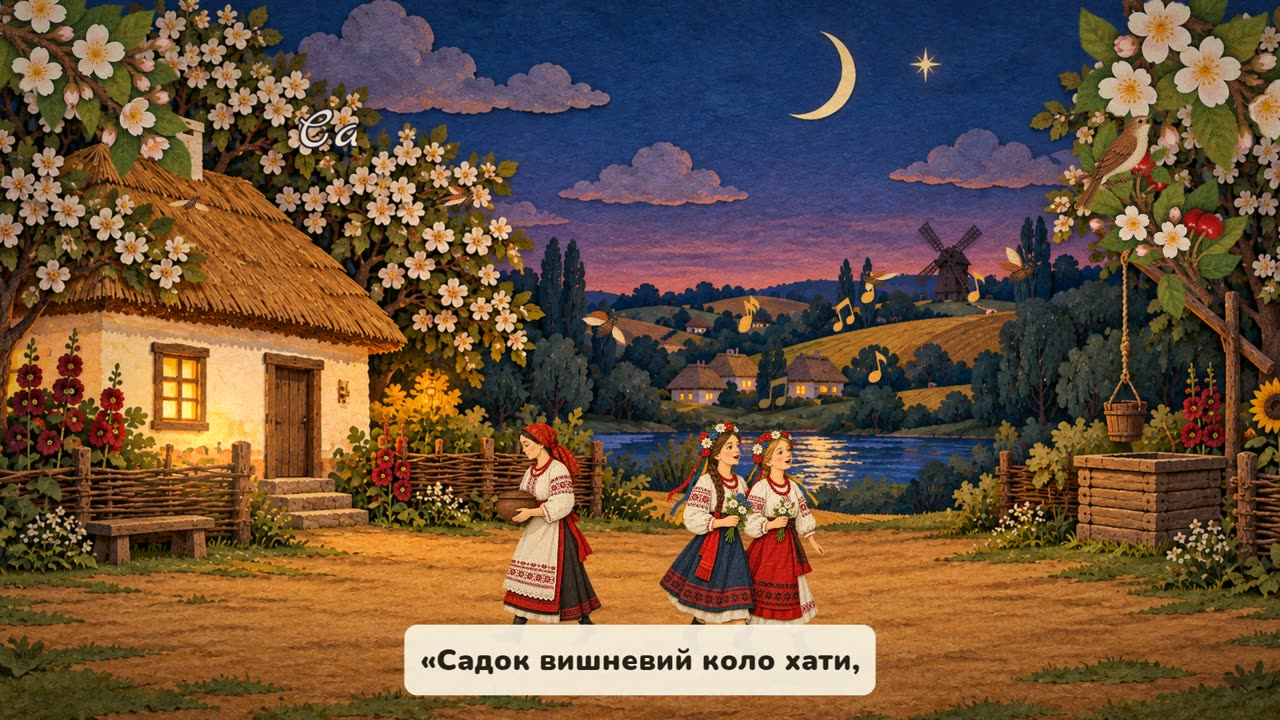
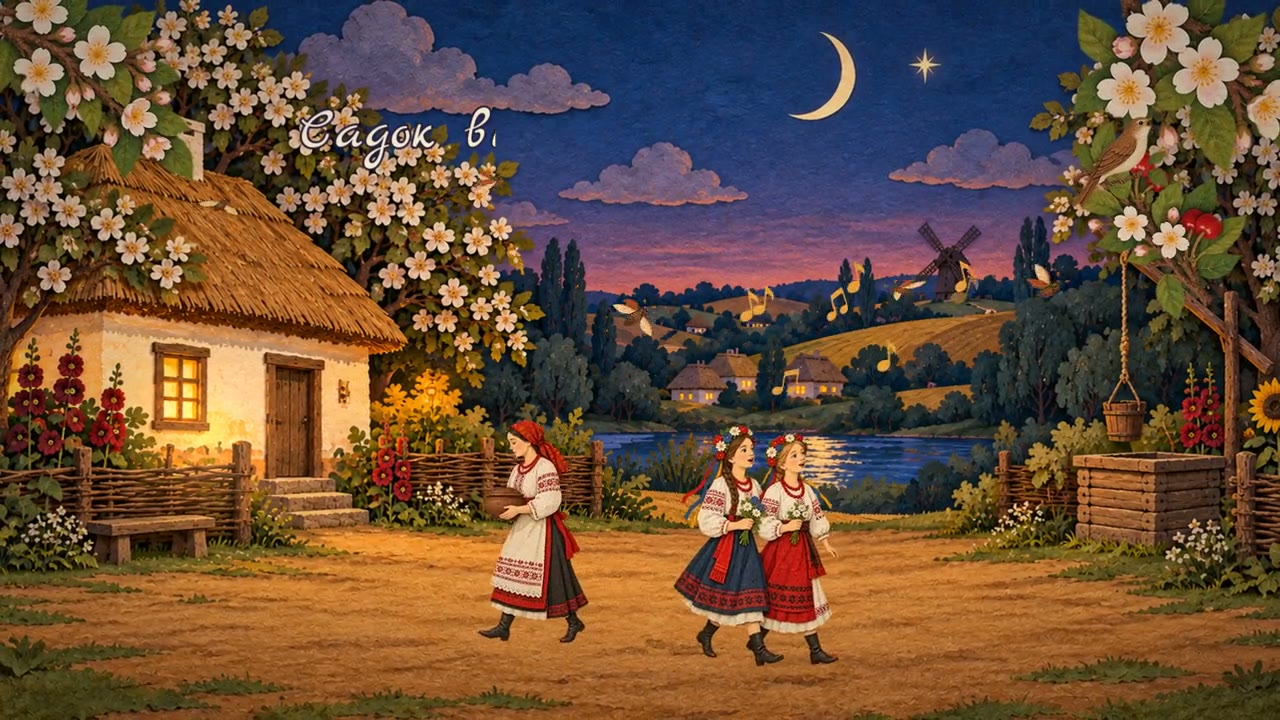
Демо: нова повна версія мультфільму про Шевченка замість старого тизера; справжні сторінки роздатки й новий кадр мультфільму на сайті

diff --git a/public/packs/mova/pack.js b/public/packs/mova/pack.js
@@ -7,7 +7,7 @@
   description: 'Заняття відповідає завданням мовно-літературної галузі НУШ, розширює знання учнів про українську писемність і знайомить із темами та постатями, які вони продовжать вивчати у 5–6 класах.',
   date: '27 жовтня',
   word: 'СЛОВО',
-  versions: {"media/franko.mp4": "2ba4d28e83", "media/kyrylo.mp4": "cdf8980ec2", "media/lesya.mp4": "43ea883218", "media/nestor.mp4": "37dc1a86c1", "media/shevchenko-full.mp4": "58e5483b3f", "media/shevchenko.mp4": "74216cc9c3", "docs/robochi-arkushi.pdf": "ed109886d8", "img/cover-card.jpg": "c5660e5ef7", "img/franko-head.png": "237ec86192", "img/franko-poster.jpg": "c35c5da12b", "img/handout-01.jpg": "0b5141a8e4", "img/handout-02.jpg": "ae479dd082", "img/handout-03.jpg": "f8233dacbe", "img/handout-04.jpg": "42fba5b991", "img/handout-05.jpg": "f25b27ae13", "img/handout-06.jpg": "652d45bcf9", "img/handout-07.jpg": "f8ab020884", "img/handout-08.jpg": "7769d9a4df", "img/handout-09.jpg": "3b734e73f8", "img/handout-10.jpg": "a25b0774a4", "img/handout-11.jpg": "ade5dd64de", "img/handout-12.jpg": "4b2b6fc7db", "img/handout-13.jpg": "69584e55c5", "img/handout-14.jpg": "f6aed514a5", "img/handout-15.jpg": "d525eb2170", "img/handout-16.jpg": "baed947c65", "img/handout-17.jpg": "5d2a9022d3", "img/handout-18.jpg": "5baf123843", "img/kyrylo-head.png": "9230b66978", "img/kyrylo-poster.jpg": "4c96585f35", "img/lesya-head.png": "48df682c9c", "img/lesya-poster.jpg": "986d35fd15", "img/nestor-head.png": "e490fb8de2", "img/nestor-poster.jpg": "2d7f98fc9d", "img/shevchenko-head.png": "051f350828", "img/shevchenko-poster.jpg": "dcdbaed8ab"},
+  versions: {"media/franko.mp4": "2ba4d28e83", "media/kyrylo.mp4": "cdf8980ec2", "media/lesya.mp4": "43ea883218", "media/nestor.mp4": "37dc1a86c1", "media/shevchenko-full.mp4": "58e5483b3f", "media/shevchenko.mp4": "74216cc9c3", "docs/robochi-arkushi.pdf": "ed109886d8", "img/cover-card.jpg": "c5660e5ef7", "img/franko-head.png": "237ec86192", "img/franko-poster.jpg": "c35c5da12b", "img/handout-01.jpg": "0b5141a8e4", "img/handout-02.jpg": "ae479dd082", "img/handout-03.jpg": "f8233dacbe", "img/handout-04.jpg": "42fba5b991", "img/handout-05.jpg": "f25b27ae13", "img/handout-06.jpg": "652d45bcf9", "img/handout-07.jpg": "f8ab020884", "img/handout-08.jpg": "7769d9a4df", "img/handout-09.jpg": "3b734e73f8", "img/handout-10.jpg": "a25b0774a4", "img/handout-11.jpg": "ade5dd64de", "img/handout-12.jpg": "4b2b6fc7db", "img/handout-13.jpg": "69584e55c5", "img/handout-14.jpg": "f6aed514a5", "img/handout-15.jpg": "d525eb2170", "img/handout-16.jpg": "baed947c65", "img/handout-17.jpg": "5d2a9022d3", "img/handout-18.jpg": "5baf123843", "img/kyrylo-head.png": "9230b66978", "img/kyrylo-poster.jpg": "4c96585f35", "img/lesya-head.png": "48df682c9c", "img/lesya-poster.jpg": "986d35fd15", "img/nestor-head.png": "e490fb8de2", "img/nestor-poster.jpg": "2d7f98fc9d", "img/shevchenko-head.png": "051f350828", "img/shevchenko-poster.jpg": "7d84a5cc80"},
   subs: {"media/franko.mp4":[[1.31,3.06,"Знаєте, як кують слова?"],[4.54,8.3,"Так само, як залізо: гарячим серцем і працею."],[14.0,17.58,"Я, Іван Франко, народився в селі Нагуєвичі."],[18.1,19.78,"Мій тато був ковалем."],[20.17,24.18,"Я годинами дивився, як зі шматка заліза народжується підкова."],[25.86,28.47,"А найбільше я любив книжки."],[30.04,33.23,"Я вчився в Дрогобичі й був одним із найкращих учнів."],[33.55,36.12,"Книжки були для мене справжнім скарбом."],[37.78,42.49,"Для дітей я писав казки. Ось одна з них — «Фарбований Лис»."],[43.1,49.17,"Тікав якось Лис Микита від собак… і — бульк! — прямісінько в бочку з фарбою!"],[49.88,52.8,"Виліз Лис — увесь синій!"],[53.08,56.1,"І звірі подумали, що це дивовижний цар!"],[56.74,62.62,"Та одного дня… він почув, як виють лиси… і сам — завив!"],[62.78,66.26,"Тоді звірі зрозуміли, що він їх обманув!"],[67.04,70.66,"Бо правда… рано чи пізно відкривається."],[72.51,78.25,"Я писав вірші, оповідання й казки… а ще перекладав книжки з різних мов!"],[78.65,83.05,"Пізніше мої твори зібрали — у п'ятдесяти великих томах!"],[84.88,89.34,"Мій тато кував залізо… а я — працював зі словами."],[90.56,93.41,"Адже словом можна підтримати людину…"],[93.75,95.97,"і допомогти їй змінювати світ!"],[97.67,102.63,"Якого ж кольору був мій Лис? Синього!"],[104.44,107.51,"Діти, назвіть якнайбільше слів-кольорів!"]],"media/kyrylo.mp4":[[1.56,8.74,"Уявіть… у людей є своя мова… пісні… казки… колискові…"],[9.76,12.48,"Але книжок цією мовою — майже немає."],[13.22,16.54,"Щоб записувати слова… потрібна абетка."],[21.88,23.46,"Брате Костянтине!"],[23.66,26.56,"З далекої Моравії прибули посли."],[26.82,32.2,"Слов'яни просять книги — своєю, рідною мовою!"],[33.08,38.36,"Але ж немає абетки… якою можна записувати слов'янську мову…"],[39.9,42.48,"Значить — ми її створимо!"],[44.03,50.07,"Ночами… при свічці… я добирав знак — для кожного звука."],[51.39,56.29,"Так з'явилася глаголиця — найдавніша відома слов'янська абетка!"],[57.52,60.68,"Ми перекладали книжки слов'янською мовою."],[61.66,64.04,"Одна з них починалася словами…"],[64.96,68.96,"«Споконвіку… було Слово»."],[70.45,74.17,"І ми вирушили в дорогу — через гори й ріки, —"],[74.23,78.33,"щоб навчити людей читати й писати рідною мовою."],[80.13,85.49,"Пізніше… серед наших учнів і послідовників з'явилася кирилиця."],[85.65,88.01,"Її назвали — на мою честь."],[89.79,93.17,"Від неї походить і сучасна українська абетка!"],[94.47,96.55,"А тепер — таємниця для вас."],[96.95,99.81,"Я записав одне слово глаголицею."],[100.91,102.75,"Зможете його прочитати?"]],"media/lesya.mp4":[[1.16,3.2,"Чуєте, як шепоче ліс?"],[4.88,8.8,"Я виросла серед таких лісів — на Волині й Поліссі."],[9.26,11.76,"І кожне дерево тут має свою пісню."],[18.04,21.84,"Мене звали Лариса Косач."],[22.02,25.38,"А рідні кликали просто — Леся."],[25.7,29.1,"Моя мама була письменницею. Вона розповідала мені казки й співала пісень."],[30.98,34.88,"Коли мені було дев'ять, мою тітку забрали далеко від дому."],[35.28,40.78,"Мені було так сумно, що вночі я взяла олівець… і написала свій перший вірш."],[42.08,44.72,"«Ні долі, ні волі у мене нема,"],[45.7,47.88,"Зосталася тільки надія одна»."],[49.92,55.48,"Невдовзі я тяжко захворіла… і не могла бігати, як інші діти."],[56.28,62.36,"Але я не здалася: багато читала, писала — і вивчала різні мови."],[63.99,68.22,"Коли мені було тринадцять років… у журналі надрукували мій вірш!"],[69.06,72.58,"Я підписала його ім'ям — Леся Українка."],[73.61,76.94,"Таке ім'я письменника називають літературним ім'ям."],[78.75,81.87,"А ще я написала «Лісову пісню»…"],[82.27,86.51,"чарівну історію про людей — і казкових мешканців лісу."],[87.29,90.61,"Одна з її героїнь — лісова дівчина Мавка."],[92.52,97.34,"Вірші народжуються, коли слова дружать і звучать схоже: рука — ріка…"],[97.5,101.64,"Діти, знайдіть пари слів, що римуються!"]],"media/nestor.mp4":[[1.12,2.04,"Тихо…"],[2.52,6.34,"Ми в печерах Києво-Печерського монастиря."],[6.96,9.06,"Саме тут, при свічці,"],[9.24,12.18,"почалася одна дуже важлива книга."],[17.72,21.72,"Отче Несторе, а звідки ми знаємо, як жили люди давним-давно?"],[22.14,24.94,"Адже тоді не було ні фото, ні відео!"],[25.44,29.7,"Бо хтось… записував те, що відбувалося."],[30.6,33.98,"Я прийшов до монастиря ще юнаком…"],[34.36,38.66,"багато вчився — і працював із давніми книгами."],[40.17,45.29,"Ось давні слова, якими починається літопис…"],[46.07,48.69,"«Повість временних літ…"],[49.27,52.61,"…звідки пішла Руська земля»."],[53.88,57.46,"Несторе… а що означають ці давні слова?"],[58.02,63.14,"Простими словами — це розповідь про минулі роки."],[64.0,67.44,"Колись рік називали… «літом»!"],[67.94,71.38,"Тому така книга і зветься — літописом."],[72.7,75.36,"У літописі є легенда…"],[75.54,80.76,"про Кия, Щека, Хорива — та їхню сестру Либідь."],[80.94,85.78,"Є розповіді про княгиню Ольгу…"],[85.8,91.56,"й Ярослава Мудрого, який любив книжки — і дбав, щоб їх переписували."],[92.86,95.2,"Ой! Вітер розкидав аркуші…"],[95.42,97.04,"Події переплуталися!"],[97.62,98.68,"Не біда!"],[99.26,105.58,"Діти, допоможіть нам — розставте події по порядку, як справжні літописці!"]],"media/shevchenko-full.mp4":[[1.16,1.94,"Тссс…"],[2.6,8.66,"Уночі, коли всі спали, я тихенько пробирався в сад і малював статуї при місяці."],[9.64,12.5,"Бо понад усе хотів стати художником."],[18.36,20.3,"Я — Тарас Шевченко."],[21.42,25.24,"Я народився 1814 року в селі Моринці."],[26.14,29.6,"Моя родина була кріпаками… ми не були вільними."],[30.28,31.58,"Нами володів пан."],[32.57,37.43,"Змалку я малював усюди: вуглинкою на стінах, на парканах…"],[38.92,44.32,"Мені здавалося, що кожна хата й кожна верба просяться на малюнок."],[45.76,48.27,"Пан забрав мене служити в далеке чуже місто."],[49.44,51.68,"Там я й малював уночі статуї в саду."],[52.8,58.13,"Одного разу мене помітив український художник Іван Сошенко — і вирішив допомогти."],[59.68,66.54,"Мої друзі влаштували розіграш картини — і зібрали потрібні гроші!"],[67.32,68.88,"За них мене викупили з кріпацтва!"],[69.54,72.18,"У двадцять чотири роки… я нарешті став вільним!"],[73.77,79.9,"А 1840 року вийшла моя перша книжка віршів — «Кобзар»."],[82.25,87.58,"Кобзарями називали мандрівних співців, які несли людям пісню і правду."],[88.96,94.74,"За мої вірші про волю російський цар наказав заслати мене далеко від України…"],[95.52,97.68,"і заборонив писати та малювати."],[98.98,102.74,"Але я потайки писав… у маленьких книжечках…"],[103.56,105.12,"і ховав їх у чоботі."],[107.46,109.99,"А найчастіше я згадував рідну хату…"],[111.05,112.98,"«Садок вишневий коло хати,"],[113.59,115.85,"хрущі над вишнями гудуть…»"],[116.96,120.43,"Ой! Вітер розсипав слова з мого вірша!"],[121.19,124.43,"Діти, допоможіть зібрати рядок у правильному порядку!"]],"media/shevchenko.mp4":[[1.0,4.35,"Добрий день, діти! Я — Тарас Шевченко."],[5.6,7.95,"Коли я був таким малим, як ви…"],[8.7,10.95,"…то найбільше любив малювати."],[11.1,14.05,"Вуглинкою — просто на білих стінах хати!"],[15.0,18.65,"Хочете, розкажу, як хлопчик-кріпак став поетом?"]]},
   base: 'packs/mova/',
   cover: 'img/cover-card.jpg',
@@ -59,7 +59,6 @@
       letter: 'О',
       portrait: 'img/shevchenko-head.png',
       video: 'media/shevchenko-full.mp4',
-      demoVideo: 'media/shevchenko.mp4',
       poster: 'img/shevchenko-poster.jpg',
       intro: 'Тарас Шевченко народився в родині кріпаків. Змалку любив малювати, а виріс великим поетом і художником. 1840 року вийшла його книжка віршів «Кобзар».',
       task: {
@@ -111,8 +110,7 @@
   ],
 
   cartoons: [
-    { title: 'Тарас Шевченко: хлопчик, який малював волю', file: 'media/shevchenko-full.mp4', ready: true },
-    { title: 'Тарас Шевченко: «Коли я був малим…» (тизер)', file: 'media/shevchenko.mp4', ready: true, demo: true },
+    { title: 'Тарас Шевченко: хлопчик, який малював волю', file: 'media/shevchenko-full.mp4', ready: true, demo: true },
     { title: 'Кирило і Мефодій: таємниця першої абетки', file: 'media/kyrylo.mp4', ready: true },
     { title: 'Нестор Літописець: книга про минулі літа', file: 'media/nestor.mp4', ready: true },
     { title: 'Леся Українка: дівчинка, яка перемогла страх словом', file: 'media/lesya.mp4', ready: true },

diff --git a/public/index.html b/public/index.html
@@ -20,7 +20,7 @@
 <link rel="apple-touch-icon" href="icons/apple-touch-icon.png">
 <link rel="manifest" href="manifest.webmanifest">
 <link rel="preload" href="fonts/Nunito.ttf" as="font" type="font/ttf" crossorigin>
-<link rel="stylesheet" href="css/site.css?v=291be0e89c">
+<link rel="stylesheet" href="css/site.css?v=390a88ed00">
 </head>
 <body>
 
@@ -123,7 +123,7 @@
           </div>
         </article>
         <article class="feature reveal">
-          <div class="pic"><img src="img/site/flashback.webp?v=2" alt="Кадр мультфільму: малий Тарас малює вуглинкою на стіні хати" width="1440" height="810" loading="lazy"></div>
+          <div class="pic"><img src="img/site/flashback.webp?v=3" alt="Кадр мультфільму: малий Тарас малює вуглинкою, і малюнок оживає" width="1440" height="810" loading="lazy"></div>
           <div class="body">
             <h3><span class="tag"><svg viewBox="0 0 24 24" fill="none" stroke="currentColor" stroke-width="2.2"><rect x="3" y="5" width="18" height="14" rx="2"/><path d="M10 9l5 3-5 3z" fill="currentColor"/></svg></span>Мультфільми</h3>
             <p>Класики оживають у стилі паперового вертепу й самі розповідають дітям свою історію.</p>
@@ -131,11 +131,7 @@
           </div>
         </article>
         <article class="feature reveal">
-          <div class="pic paper" aria-hidden="true">
-            <div class="sheet" style="--r:-4deg"><i class="t"></i><i></i><i class="s"></i><div class="grid"></div></div>
-            <div class="sheet" style="--r:2deg"><i class="t"></i><div class="grid"></div><i></i><i class="s"></i></div>
-            <div class="sheet" style="--r:5deg"><i class="t"></i><i></i><i></i><i class="s"></i><div class="grid"></div></div>
-          </div>
+          <div class="pic"><img src="img/site/handouts.webp?v=1" alt="Сторінки роздатки: обкладинка, аркуш «Кирило і Мефодій» з глаголицею та грамота «Знавець рідної мови»" width="1440" height="810" loading="lazy"></div>
           <div class="body">
             <h3><span class="tag"><svg viewBox="0 0 24 24" fill="none" stroke="currentColor" stroke-width="2.2" stroke-linejoin="round"><path d="M7 9V3h10v6"/><rect x="3" y="9" width="18" height="8" rx="2"/><path d="M7 14h10v7H7z"/></svg></span>Роздатка для друку</h3>
             <p>Робочі аркуші, плакати для класу, грамоти й закладки — друкуються і в кольорі, і чорно-білими.</p>

diff --git a/public/css/site.css b/public/css/site.css
@@ -172,12 +172,6 @@ p { margin: 0; }
 .feature ul { margin: 6px 0 0; padding: 0; list-style: none; display: flex; flex-direction: column; gap: 6px; color: var(--ink-2); font-size: .95em; }
 .feature li { padding-left: 20px; position: relative; }
 .feature li::before { content: ''; position: absolute; left: 0; top: .55em; width: 8px; height: 8px; background: var(--red); }
-.feature .pic.paper { display: grid; grid-template-columns: repeat(3, 1fr); gap: 12px; padding: 22px; align-items: center; }
-.sheet { background: #fff; border-radius: 6px; aspect-ratio: 210 / 297; box-shadow: 0 10px 20px -12px rgba(42, 23, 20, .45); padding: 10%; display: flex; flex-direction: column; gap: 8%; transform: rotate(var(--r, 0deg)); }
-.sheet i { display: block; height: 6%; background: var(--paper-3); border-radius: 3px; }
-.sheet i.t { background: var(--red); width: 60%; height: 8%; }
-.sheet i.s { width: 40%; }
-.sheet .grid { flex: 1; background: repeating-linear-gradient(90deg, #f4ede1 0 14%, transparent 14% 16%), repeating-linear-gradient(#f4ede1 0 14%, transparent 14% 16%); border-radius: 3px; }
 @media (max-width: 760px) { .inside { grid-template-columns: 1fr; } }
 
 /* ---------- як це працює ---------- */

diff --git a/public/sw.js b/public/sw.js
@@ -1,5 +1,5 @@
 /* Робота без інтернету: після першого відкриття все потрібне лежить у кеші. Нову версію — через зміну VERSION. */
-const VERSION = 'dyvourok-v14';
+const VERSION = 'dyvourok-v15';
 // Застосунок живе в /app/, сайт-вітрина — на головній (її не кешуємо наперед).
 const CORE = [
   'app/', 'manifest.webmanifest', 'css/app.css',
@@ -7,8 +7,7 @@ const CORE = [
   'fonts/Nunito.ttf', 'fonts/NotoSansGlagolitic.ttf',
   'brand/dyvourok-logo.svg', 'brand/dyvourok-mark.svg',
   'icons/favicon.svg', 'icons/icon-192.png', 'icons/icon-512.png',
-  'packs/mova/pack.js', 'packs/mova/img/cover-card.jpg', 'packs/mova/img/shevchenko-head.png', 'packs/mova/img/shevchenko-poster.jpg',
-  'packs/mova/media/shevchenko.mp4'
+  'packs/mova/pack.js', 'packs/mova/img/cover-card.jpg', 'packs/mova/img/shevchenko-head.png', 'packs/mova/img/shevchenko-poster.jpg'
 ];
 // Захищені файли (PDF, відео з доступом) не входять у CORE: вони кешуються, коли вчитель з кодом їх відкриває.
 

diff --git a/public/js/app.js b/public/js/app.js
@@ -345,7 +345,7 @@
 
   // ---------------------------------------------------------------- зупинка
   function stop(pack, s) {
-    const vsrc = !license.allows(pack.id) && s.demoVideo ? s.demoVideo : s.video;   // у демо — короткий тизер
+    const vsrc = !license.allows(pack.id) && s.demoVideo ? s.demoVideo : s.video;   // demoVideo — окреме відео для демо, якщо задано
     const video = vsrc
       ? h('div', { class: 'video-box' }, player(pack, vsrc, { poster: s.poster ? asset(pack, s.poster) : null }))
       : h('div', { class: 'video-box soon' }, h('div', { class: 'big' }, icon('film')), 'Мультфільм про цього героя з\'явиться незабаром', h('div', { class: 'muted' }, 'А поки прочитайте розповідь і виконайте завдання'));

diff --git a/public/app/index.html b/public/app/index.html
@@ -18,9 +18,9 @@
 </head>
 <body>
 <div id="app"></div>
-<script src="packs/mova/pack.js?v=3526a0d4a6"></script>
+<script src="packs/mova/pack.js?v=e17ed9ea24"></script>
 <script src="js/star.js?v=b7e06e2615"></script>
 <script src="js/sfx.js?v=37eb85b0f8"></script>
-<script src="js/app.js?v=9de028150b"></script>
+<script src="js/app.js?v=79e33e03f4"></script>
 </body>
 </html>

diff --git a/functions/packs/[[path]].js b/functions/packs/[[path]].js
@@ -5,7 +5,7 @@ import { readSession, packAllowed } from '../../lib/auth.js';
 const PUBLIC = [
   /^[a-z0-9-]+\/pack\.js$/,
   /^[a-z0-9-]+\/img\//,
-  /^mova\/media\/shevchenko\.mp4$/          // демо-зупинка
+  /^mova\/media\/shevchenko-full\.mp4$/     // демо-зупинка
 ];
 
 export async function onRequest({ request, env, params }) {
